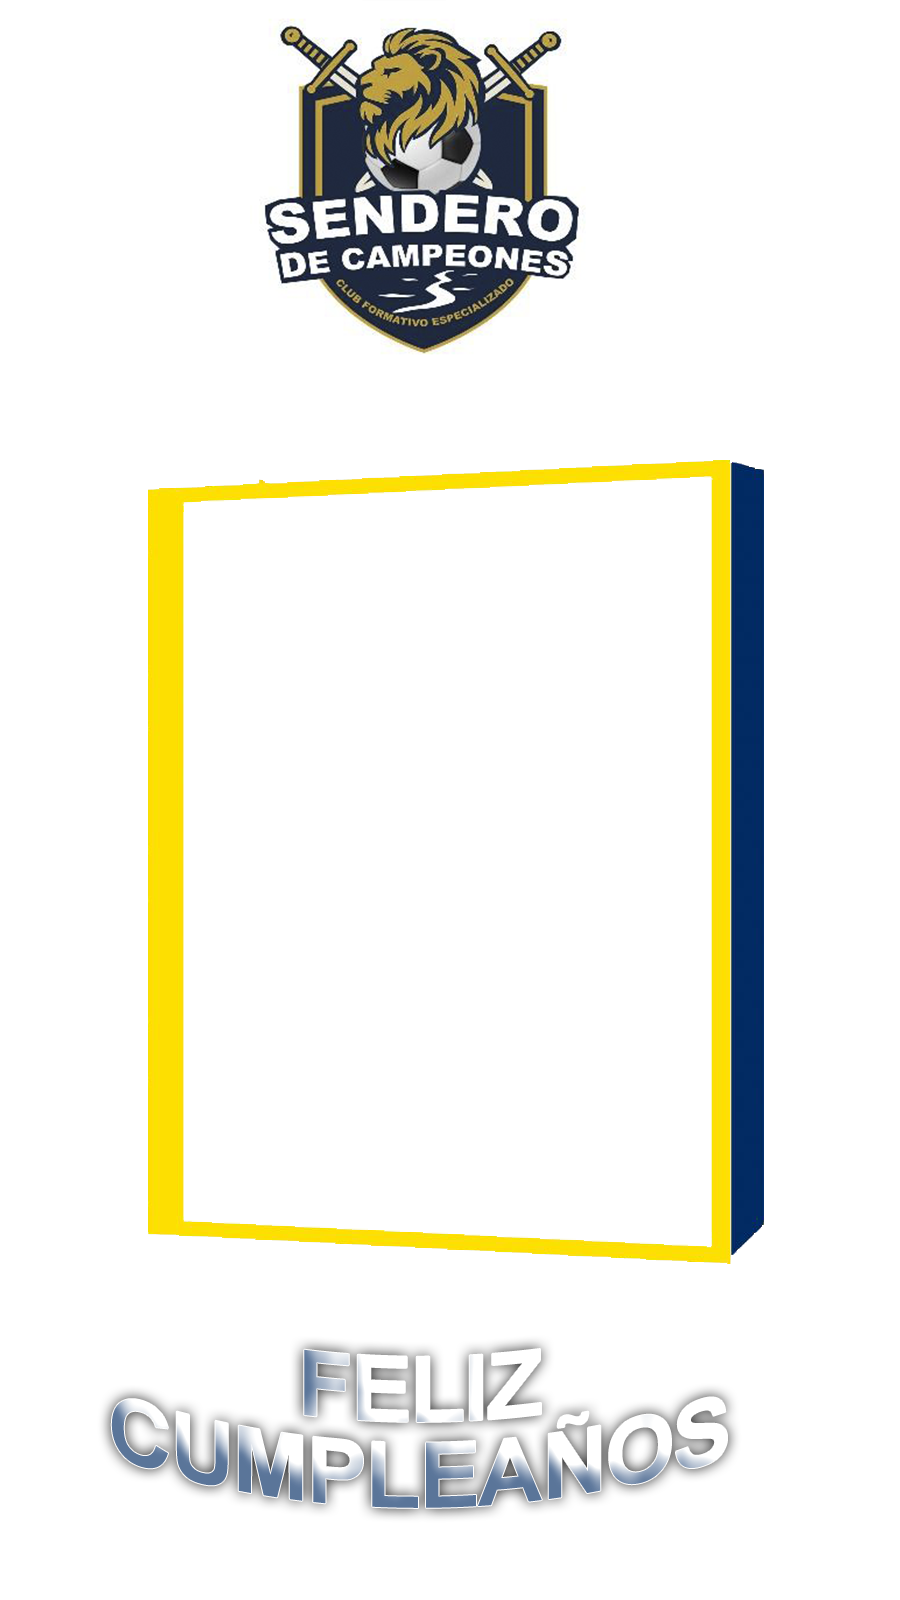
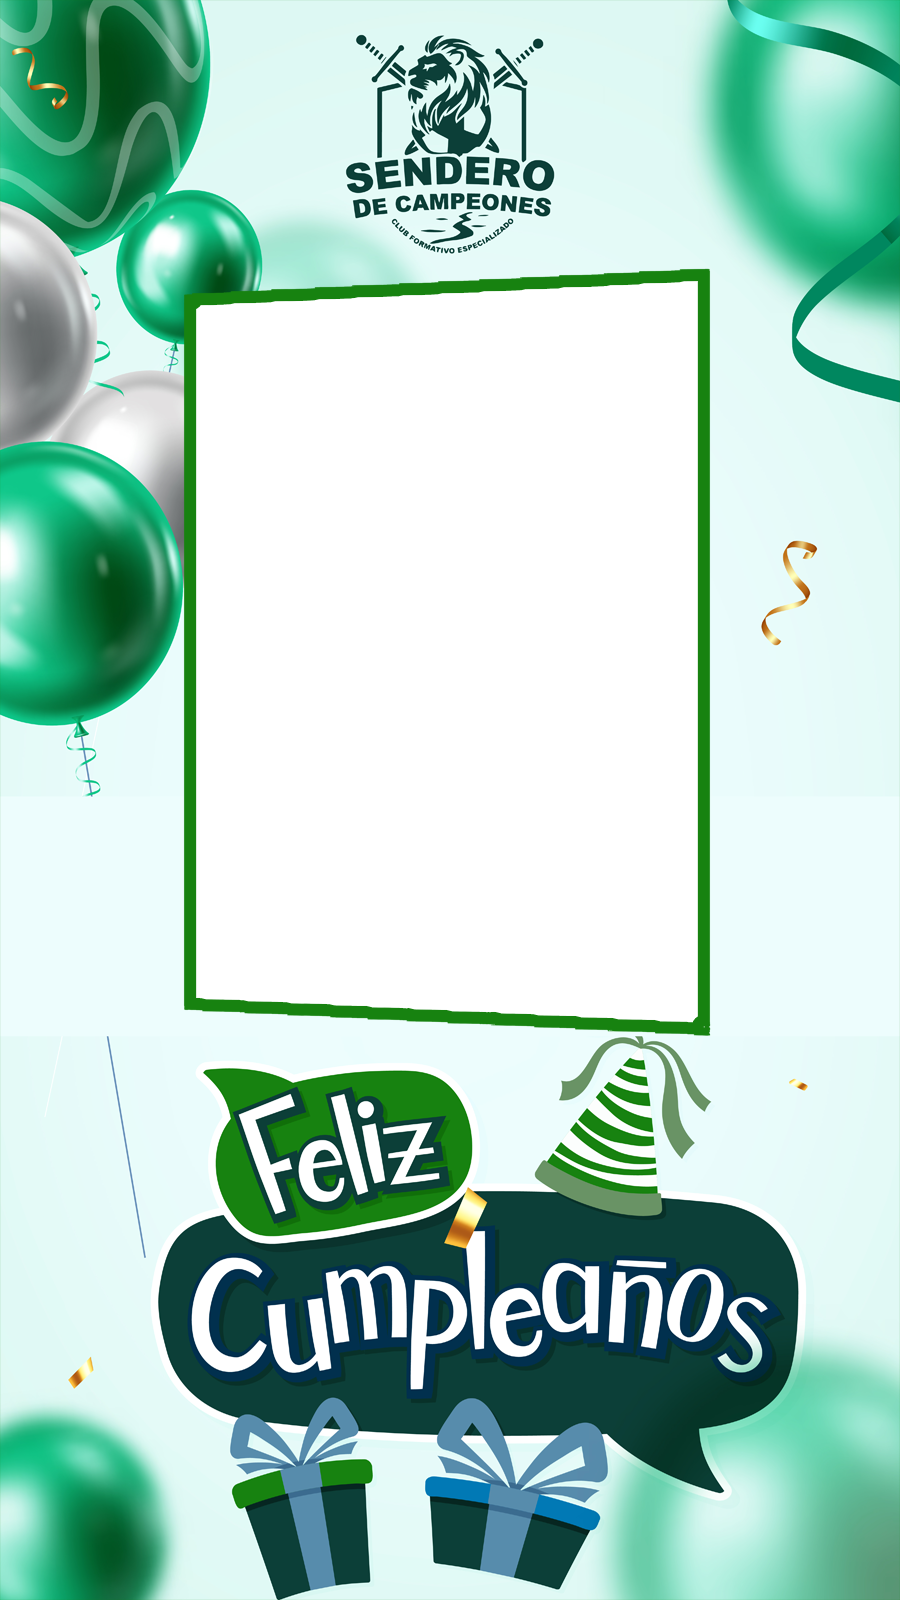
Actualizar marco de cumpleanios

diff --git a/app/views/content/cumpleaniosTarjeta-view.php b/app/views/content/cumpleaniosTarjeta-view.php
@@ -3,7 +3,7 @@
  * Genera la tarjeta de cumpleaños como imagen JPEG.
  * Ruta: cumpleaniosTarjeta/{alumno_id}/
  *
- * La foto del alumno se coloca en el rectángulo blanco de la plantilla marcocp.jpeg.
+ * La foto del alumno se coloca en el área interior de la plantilla marco.png.
  * Las proporciones del rectángulo se definen abajo y pueden ajustarse si cambia la plantilla.
  */
 	ob_start();
@@ -51,13 +51,13 @@
 	$bg = imagecolorallocate($canvas, 255, 255, 255);
 	imagefilledrectangle($canvas, 0, 0, $marco_w - 1, $marco_h - 1, $bg);
 
-	// ── Proporciones del rectángulo blanco en marcocp.jpeg ─────
+	// ── Proporciones del área interior en marco.png ─────────────
 	// Ajustar estos valores si se cambia la plantilla.
-	// Coordenadas del interior blanco (sin el borde amarillo).
-	$rect_x = (int)($marco_w * 0.204);   // borde izquierdo del área blanca
-	$rect_y = (int)($marco_h * 0.298);   // borde superior del área blanca
-	$rect_w = (int)($marco_w * 0.588);   // ancho del área blanca
-	$rect_h = (int)($marco_h * 0.482);   // alto del área blanca
+	// Coordenadas del área interior de la foto (sin el borde del marco).
+	$rect_x = (int)($marco_w * 0.218);   // borde izquierdo del área de foto
+	$rect_y = (int)($marco_h * 0.176);   // borde superior del área de foto (sube la imagen)
+	$rect_w = (int)($marco_w * 0.558);   // ancho del área de foto
+	$rect_h = (int)($marco_h * 0.463);   // alto del área de foto
 
 	// ── Cargar foto del alumno ─────────────────────────────────
 	$foto_path = ($alumno['alumno_imagen'] !== '')
@@ -168,7 +168,8 @@
 	$clear = imagecolorallocatealpha($franja_overlay, 0, 0, 0, 127);
 	imagefilledrectangle($franja_overlay, 0, 0, $marco_w - 1, $marco_h - 1, $clear);
 	// alpha 38 ≈ 70% opacidad (escala GD: 0=opaco, 127=transparente)
-	$franja_color = imagecolorallocatealpha($franja_overlay, 0, 42, 100, 38);
+	// Verde institucional tomado de cumpleaniosList (cumples.css: --azul #054017)
+	$franja_color = imagecolorallocatealpha($franja_overlay, 5, 64, 23, 38);
 	$poly_points = [
 		$rect_x,            $franja_y,                     // top-left
 		$rect_x + $rect_w,  $franja_y - $tilt,             // top-right (más bajo, giro horario)
